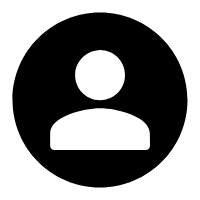
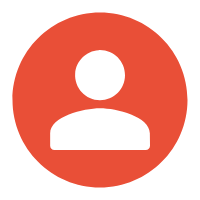
'修改“我的”页面样式'

diff --git a/GBeanMallProject/src/screen/mine/Mine.js b/GBeanMallProject/src/screen/mine/Mine.js
@@ -1,5 +1,5 @@
 import React, {Component} from 'react';
-import {Text, Image, Button, View, StyleSheet} from 'react-native';
+import {Text, Image, Button, View, StyleSheet, TouchableHighlight} from 'react-native';
 import {styles, deviceWidth} from './../../common/modules/styles';
 
 export default class MineScreen extends Component{
@@ -18,8 +18,10 @@ export default class MineScreen extends Component{
         return(
             <View>
                 <View style={MineStyles.accountContainer}>
-                    <Image source={require('./../../img/head.png')}/>
-                    <Text>登录</Text>
+                    <Image source={require('./../../img/head.png')} style={MineStyles.headPic}/>
+                    <View style={MineStyles.signInBtn}>
+                        <Button title="登录" onPress={e => console.log('点击登录')} color='#e94f37'/>
+                    </View>
                 </View>
             </View>
         );
@@ -28,10 +30,23 @@ export default class MineScreen extends Component{
 
 const MineStyles = StyleSheet.create({
     accountContainer: {
-        padding: 16,
+        paddingTop: 36,
+        paddingBottom: 24,
         backgroundColor: '#fff',
         flexDirection: 'column',
         justifyContent: 'center',
         alignItems: 'center',
+        backgroundColor: '#fff',
+    },
+    headPic: {
+        width: deviceWidth/6,
+        height: deviceWidth/6,
+    },
+    signInBtn: {
+        width: deviceWidth/4,
+        margin: 16,
+    },
+    btnText: {
+        color: '#fff',
     }
 });
